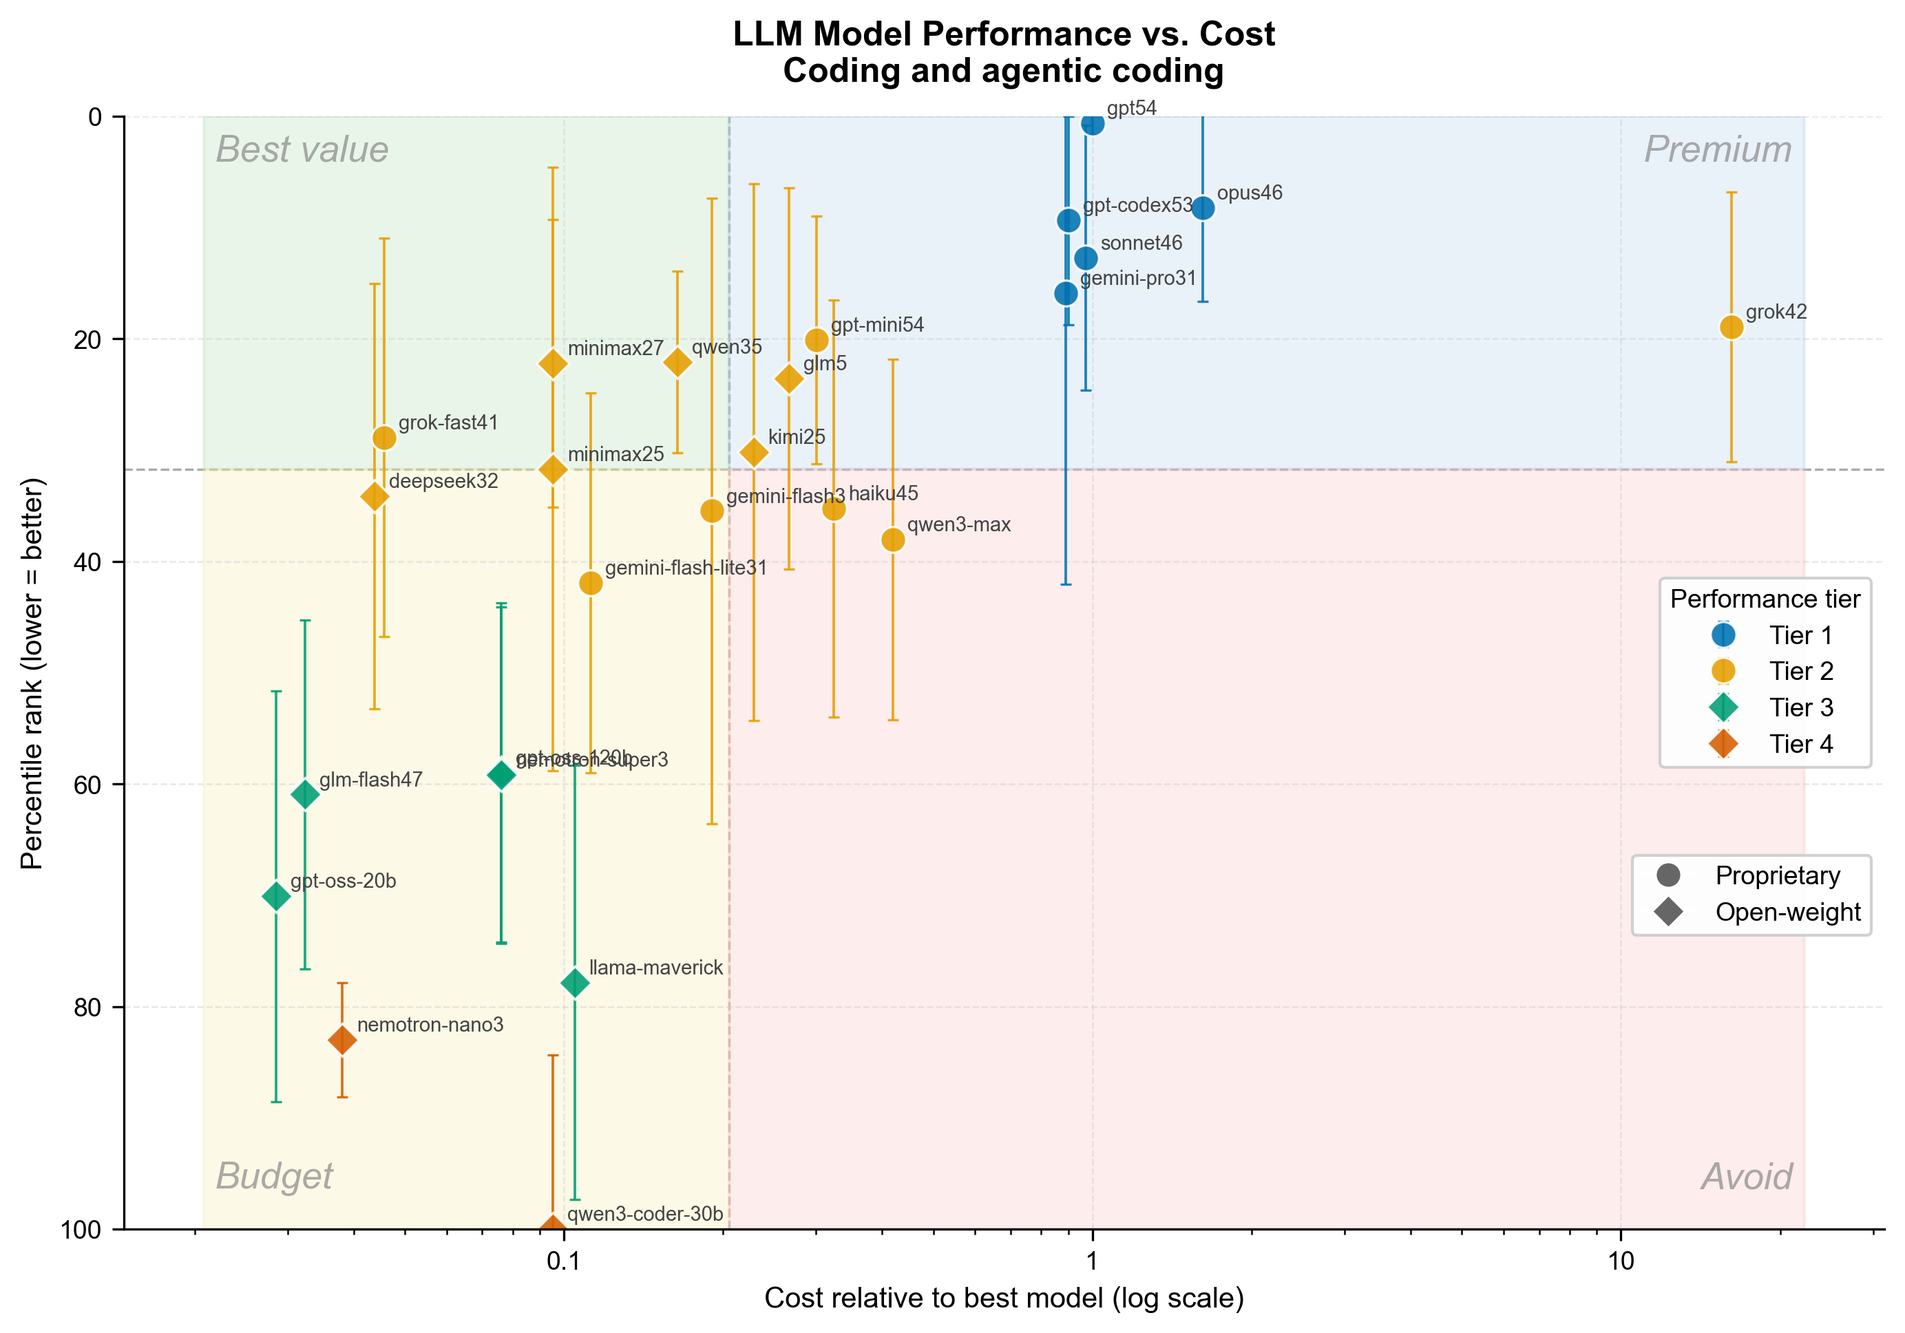
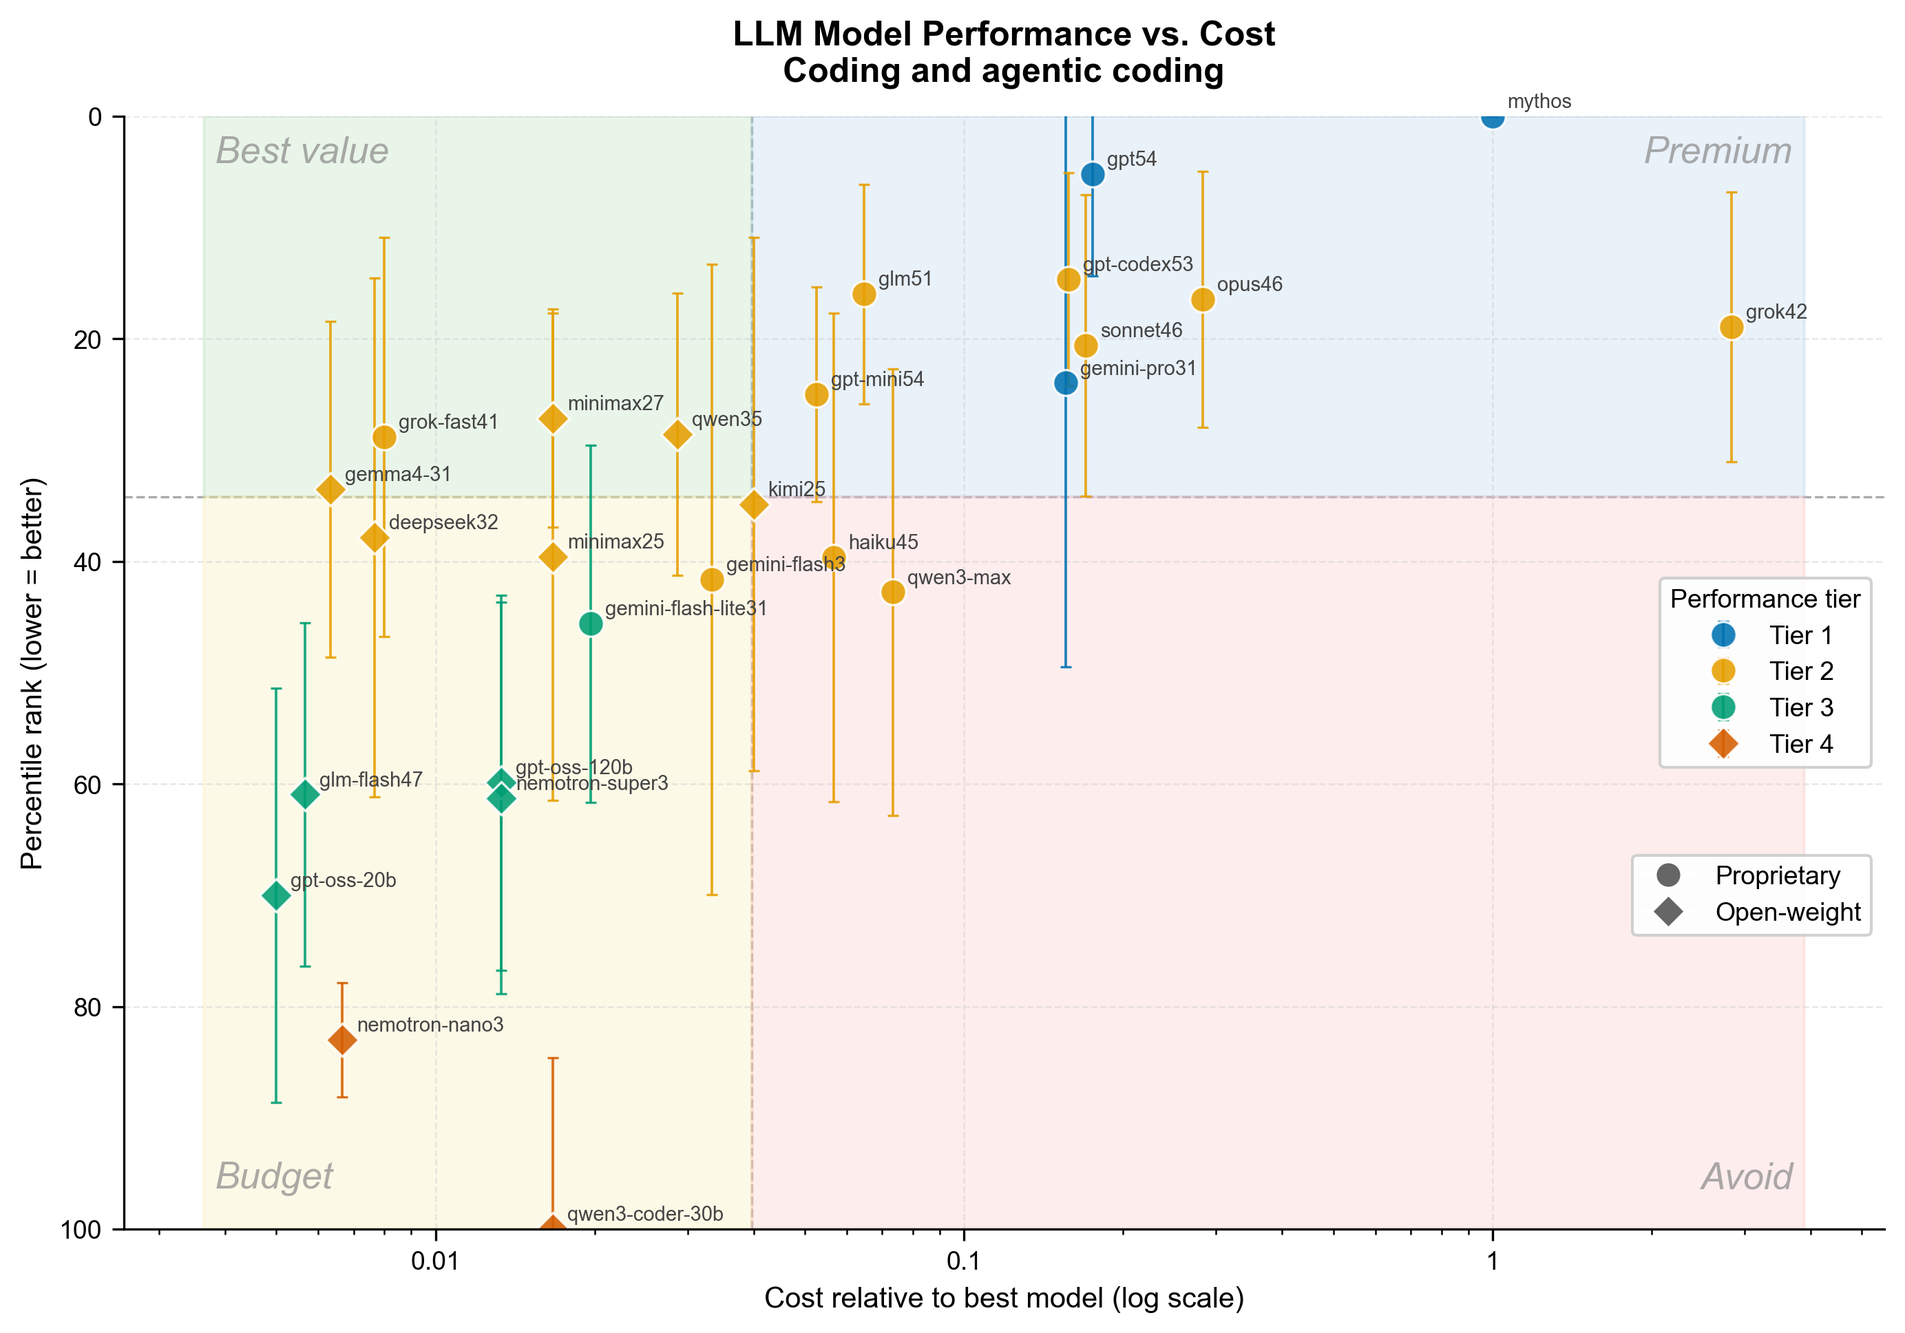
updated rankings: new models, leaderboards, and figures for April 2026

diff --git a/_pages/llm-ranking.md b/_pages/llm-ranking.md
@@ -11,7 +11,7 @@ images:
 
 I benchmarked dozens of LLMs across coding and general reasoning tasks, then mapped their performance against API pricing. This page breaks down the rankings and highlight the best value picks in each category.
 
-Updated on Feb. 25 2026.
+Updated on Apr. 10 2026.
 
 ## Introduction
 
@@ -27,40 +27,45 @@ By analyzing the results, we can identify the highest-performing models as well 
 
 ### General reasoning
 
-The general reasoning ranking, aggregated across four leaderboards, reveals a tight race at the top—and a perhaps surprising amount of statistical ambiguity below it.
+The general reasoning ranking, aggregated across seven leaderboards, is dominated at the top by proprietary models—with open-weights challengers competitive from tier 2 onward.
 
 ```
-+------------------------------------------------------------------------------------+
-| Rank  | Model                   | Avg Pctl  | Std Dev   | # Benchmarks  | Cost/1k  |
-+------------------------------------------------------------------------------------+
-| 1     | gemini-pro31            | 0.028     | 0.031     | 5             | 467      |
-| 2     | opus46                  | 0.057     | 0.048     | 5             | 850      |
-| 3     | sonnet46                | 0.123     | 0.104     | 4             | 510      |
-| 4     | gpt52                   | 0.129     | 0.071     | 5             | 470      |
-| 5     | gemini-pro3             | 0.133     | 0.096     | 5             | 370      |
-| 6     | gpt-pro52               | 0.163     | 0.030     | 3             | 5700     |
-| 7     | grok-fast41             | 0.198     | 0.098     | 4             | 24       |
-| 8     | gpt-codex53             | 0.204     | 0.051     | 2             | 470      |
-| 9     | qwen35                  | 0.224     | 0.136     | 3             | 86       |
-| 10    | grok41                  | 0.226     | 0.156     | 5             | 600      |
-| 11    | glm5                    | 0.229     | 0.123     | 5             | 140      |
-| 12    | kimi25                  | 0.251     | 0.109     | 5             | 120      |
-| 13    | qwen3-max               | 0.265     | 0.116     | 3             | 220      |
-| 14    | gemini-flash3           | 0.286     | 0.263     | 5             | 100      |
-| 15    | deepseek32              | 0.291     | 0.114     | 5             | 23       |
-| 16    | haiku45                 | 0.358     | 0.121     | 3             | 170      |
-| 17    | minimax25               | 0.428     | 0.153     | 4             | 50       |
-| 18    | qwen3-235b              | 0.453     | 0.193     | 4             | 300      |
-| 19    | qwen3-80b               | 0.462     | 0.179     | 3             | 80       |
-| 20    | glm-flash47             | 0.521     | 0.100     | 2             | 17       |
-| 21    | gpt-instant52           | 0.589     | 0.297     | 4             | 470      |
-| 22    | qwen3-32b               | 0.607     | 0.170     | 3             | 40       |
-| 23    | gpt-oss-120b            | 0.645     | 0.218     | 5             | 40       |
-| 24    | llama-maverick          | 0.703     | 0.169     | 4             | 55       |
-| 25    | gpt-oss-20b             | 0.826     | 0.092     | 2             | 15       |
-| 26    | nemotron-nano3          | 0.885     | N/A       | 1             | 20       |
-| 27    | qwen3-coder-30b         | 0.891     | N/A       | 1             | 50       |
-+------------------------------------------------------------------------------------+
++-------------------------------------------------------------------------------------+
+| Rank  | Model                   | Avg Pctl  | Std Dev   | # Benchmarks  | Rel. Cost |
++-------------------------------------------------------------------------------------+
+| 1     | gemini-pro31            | 0.041     | 0.078     | 7             | 1.000     |
+| 2     | gpt54                   | 0.083     | 0.115     | 6             | 1.124     |
+| 3     | mythos                  | 0.101     | 0.001     | 2             | 6.424     |
+| 4     | opus46                  | 0.106     | 0.097     | 7             | 1.820     |
+| 5     | gpt-pro54               | 0.114     | 0.109     | 3             | 13.490    |
+| 6     | sonnet46                | 0.129     | 0.142     | 6             | 1.092     |
+| 7     | muse                    | 0.139     | 0.086     | 3             | 1.820     |
+| 8     | grok42                  | 0.181     | 0.149     | 6             | 13.490    |
+| 9     | gpt-codex53             | 0.208     | 0.050     | 2             | 1.006     |
+| 10    | glm51                   | 0.214     | 0.166     | 7             | 0.415     |
+| 11    | kimi25                  | 0.241     | 0.163     | 7             | 0.257     |
+| 12    | qwen35                  | 0.245     | 0.167     | 4             | 0.184     |
+| 13    | gemini-flash3           | 0.249     | 0.246     | 7             | 0.214     |
+| 14    | gpt-mini54              | 0.259     | 0.172     | 4             | 0.338     |
+| 15    | qwen3-max               | 0.272     | 0.133     | 5             | 0.471     |
+| 16    | gemini-flash-lite31     | 0.274     | 0.144     | 4             | 0.126     |
+| 17    | gemma4-31               | 0.286     | 0.219     | 6             | 0.041     |
+| 18    | deepseek32              | 0.290     | 0.163     | 7             | 0.049     |
+| 19    | qwen35-max              | 0.291     | N/A       | 1             | 0.749     |
+| 20    | minimax27               | 0.318     | 0.145     | 4             | 0.107     |
+| 21    | qwen3-235b              | 0.365     | N/A       | 1             | 0.642     |
+| 22    | grok-fast41             | 0.373     | 0.175     | 6             | 0.051     |
+| 23    | haiku45                 | 0.404     | 0.219     | 6             | 0.364     |
+| 24    | qwen3-80b               | 0.442     | N/A       | 1             | 0.171     |
+| 25    | glm-flash47             | 0.507     | 0.112     | 2             | 0.036     |
+| 26    | llama-maverick          | 0.583     | N/A       | 1             | 0.118     |
+| 27    | gpt-oss-120b            | 0.584     | 0.201     | 6             | 0.086     |
+| 28    | qwen35-35b              | 0.635     | N/A       | 1             | 0.107     |
+| 29    | qwen3-32b               | 0.637     | 0.203     | 3             | 0.086     |
+| 30    | gpt-oss-20b             | 0.647     | 0.160     | 3             | 0.032     |
+| 31    | qwen3-coder-30b         | 0.840     | N/A       | 1             | 0.107     |
+| 32    | nemotron-nano3          | 0.885     | N/A       | 1             | 0.043     |
++-------------------------------------------------------------------------------------+
 ```
 
 <a href="/assets/img/clippies/general_ranking.png" data-lightbox="roadtrip">
@@ -75,42 +80,39 @@ The general reasoning ranking, aggregated across four leaderboards, reveals a ti
 
 ### Coding and agentic coding
 
-The coding ranking, drawn from seven benchmarks including demanding agentic evaluations, tells a more subtle story.
+The coding ranking, drawn from nine benchmarks including demanding agentic evaluations, reveals a two-model tier-1 club at the top—and a wide, cost-diverse tier 2 below it.
 
 ```
-+------------------------------------------------------------------------------------+
-| Rank  | Model                   | Avg Pctl  | Std Dev   | # Benchmarks  | Cost/1k  |
-+------------------------------------------------------------------------------------+
-| 1     | opus46                  | 0.042     | 0.055     | 7             | 850      |
-| 2     | sonnet46                | 0.085     | 0.076     | 7             | 510      |
-| 3     | gemini-pro31            | 0.101     | 0.056     | 5             | 467      |
-| 4     | glm5                    | 0.120     | 0.072     | 6             | 140      |
-| 5     | gpt52                   | 0.132     | 0.065     | 7             | 470      |
-| 6     | gemini-pro3             | 0.133     | 0.086     | 7             | 370      |
-| 7     | gpt-codex53             | 0.172     | 0.222     | 6             | 473      |
-| 8     | kimi25                  | 0.203     | 0.112     | 6             | 120      |
-| 9     | qwen35                  | 0.210     | 0.111     | 4             | 86       |
-| 10    | gemini-flash3           | 0.218     | 0.088     | 7             | 100      |
-| 11    | gpt-pro52               | 0.258     | 0.158     | 2             | 5700     |
-| 12    | minimax25               | 0.279     | 0.189     | 6             | 50       |
-| 13    | qwen3-max               | 0.351     | 0.259     | 3             | 220      |
-| 14    | deepseek32              | 0.352     | 0.162     | 7             | 23       |
-| 15    | qwen35-27b              | 0.402     | 0.194     | 2             | 50       |
-| 16    | haiku45                 | 0.416     | 0.224     | 7             | 170      |
-| 17    | grok-fast41             | 0.463     | 0.303     | 4             | 20       |
-| 18    | qwen3-235b              | 0.472     | 0.216     | 5             | 300      |
-| 19    | glm-flash47             | 0.518     | 0.296     | 3             | 17       |
-| 20    | grok41                  | 0.563     | 0.250     | 6             | 600      |
-| 21    | gpt-instant52           | 0.618     | 0.242     | 6             | 470      |
-| 22    | qwen3-coder-30b         | 0.699     | 0.259     | 4             | 50       |
-| 23    | gpt-oss-120b            | 0.717     | 0.156     | 6             | 40       |
-| 24    | llama-maverick          | 0.746     | 0.188     | 5             | 55       |
-| 25    | gpt-oss-20b             | 0.790     | 0.185     | 4             | 15       |
-| 26    | qwen3-32b               | 0.815     | 0.069     | 3             | 40       |
-| 27    | qwen3-80b               | 0.819     | 0.096     | 3             | 80       |
-| 28    | mistral                 | 0.880     | N/A       | 1             | 400      |
-| 29    | nemotron-nano3          | 1.000     | N/A       | 1             | 20       |
-+------------------------------------------------------------------------------------+
++-------------------------------------------------------------------------------------+
+| Rank  | Model                   | Avg Pctl  | Std Dev   | # Benchmarks  | Rel. Cost |
++-------------------------------------------------------------------------------------+
+| 1     | mythos                  | 0.000     | 0.000     | 3             | 1.000     |
+| 2     | gpt54                   | 0.052     | 0.091     | 7             | 0.175     |
+| 3     | gpt-codex53             | 0.147     | 0.096     | 6             | 0.158     |
+| 4     | glm51                   | 0.160     | 0.099     | 6             | 0.065     |
+| 5     | opus46                  | 0.164     | 0.115     | 8             | 0.283     |
+| 6     | grok42                  | 0.189     | 0.121     | 3             | 2.833     |
+| 7     | sonnet46                | 0.206     | 0.136     | 8             | 0.170     |
+| 8     | gemini-pro31            | 0.240     | 0.255     | 8             | 0.156     |
+| 9     | gpt-mini54              | 0.250     | 0.097     | 6             | 0.053     |
+| 10    | minimax27               | 0.271     | 0.098     | 6             | 0.017     |
+| 11    | qwen35                  | 0.286     | 0.127     | 5             | 0.029     |
+| 12    | grok-fast41             | 0.288     | 0.179     | 5             | 0.008     |
+| 13    | gemma4-31               | 0.335     | 0.151     | 4             | 0.006     |
+| 14    | kimi25                  | 0.349     | 0.240     | 7             | 0.040     |
+| 15    | deepseek32              | 0.379     | 0.233     | 7             | 0.008     |
+| 16    | minimax25               | 0.396     | 0.219     | 8             | 0.017     |
+| 17    | haiku45                 | 0.396     | 0.220     | 8             | 0.057     |
+| 18    | gemini-flash3           | 0.416     | 0.283     | 7             | 0.033     |
+| 19    | qwen3-max               | 0.428     | 0.200     | 4             | 0.073     |
+| 20    | gemini-flash-lite31     | 0.456     | 0.160     | 5             | 0.020     |
+| 21    | gpt-oss-120b            | 0.599     | 0.168     | 5             | 0.013     |
+| 22    | glm-flash47             | 0.609     | N/A       | 1             | 0.006     |
+| 23    | nemotron-super3         | 0.613     | 0.176     | 4             | 0.013     |
+| 24    | gpt-oss-20b             | 0.700     | 0.186     | 4             | 0.005     |
+| 25    | nemotron-nano3          | 0.830     | 0.051     | 2             | 0.007     |
+| 26    | qwen3-coder-30b         | 1.000     | N/A       | 1             | 0.017     |
++-------------------------------------------------------------------------------------+
 ```
 
 <a href="/assets/img/clippies/coding_ranking.png" data-lightbox="roadtrip">
@@ -127,24 +129,28 @@ The coding ranking, drawn from seven benchmarks including demanding agentic eval
 
 ### Benchmark selection and data collection
 
-I manually collected model rankings from established LLM leaderboards on February 11, 2026, choosing benchmarks that cover different evaluation angles.
+I manually collected model rankings from established LLM leaderboards on April 10, 2026, choosing benchmarks that cover different evaluation angles.
 
-*General reasoning* draws on four leaderboards:
+*General reasoning* draws on seven leaderboards:
 
 - [LiveBench](https://livebench.ai) — regularly refreshed, multi-domain evaluation designed to resist contamination
 - [Arena](https://arena.ai/leaderboard) — ELO-style ranking from blind human preference votes (a popular-preference signal rather than a strict accuracy benchmark, but informative nonetheless)
 - [Artificial Analysis Intelligence Index](https://artificialanalysis.ai) — a composite of 10 evaluations including GPQA Diamond, Humanity's Last Exam, SciCode, and others
 - [Scale's Humanity's Last Exam](https://scale.com/leaderboard/humanitys_last_exam) — expert-level reasoning questions
+- [SimpleBench](https://simple-bench.com) — commonsense and reasoning-trap questions designed to expose systematic errors
+- [Dubesor LLM Leaderboard](https://dubesor.de/benchtable) — hand-graded multi-domain evaluation
+- [GPQA Diamond](https://scale.com/leaderboard/gpqa) — graduate-level science questions spanning biology, chemistry, and physics
 
-*Coding and agentic coding* draws on seven leaderboards:
+*Coding and agentic coding* draws on nine leaderboards:
 
-- The three leaderboards previously mentioned (using coding-specific subcategories where applicable) plus four focused evaluations below.
+- The three leaderboards previously mentioned (LiveBench coding subcategory, Arena, and Artificial Analysis agentic and coding sub-scores) plus six focused evaluations below.
 - [Scale's SWE Bench Pro Public](https://scale.com/leaderboard/swe_bench_pro_public)
 - [Berkeley Function-Calling Leaderboard (BFCL)](https://gorilla.cs.berkeley.edu/leaderboard.html) — tool and function call accuracy
 - [SWE-bench Verified](https://www.swebench.com) — real-world GitHub issue resolution
 - [Terminal-Bench 2.0](https://www.tbench.ai/leaderboard/terminal-bench/2.0) — agentic terminal and shell-based coding tasks
+- [SWE-Atlas Codebase QnA](https://sweatlas.com) — question-answering over large, real-world codebases
 
-I selected 20+ models spanning the current frontier: proprietary leaders from OpenAI (GPT-5.2+ family), Anthropic (Claude 4.5+ family), Google (Gemini 3), and xAI (Grok 4+), plus open-weights challengers from DeepSeek, Moonshot AI (Kimi), Z AI (GLM), MiniMax, Alibaba (Qwen3+), and Meta/NVIDIA (Llama 4).
+I selected 30+ models spanning the current frontier: proprietary leaders from OpenAI (GPT-5.4 family: gpt54, gpt-pro54, gpt-mini54, gpt-codex53), Anthropic (Claude 4.5+ family including the unreleased Mythos), Google (Gemini 3.1 family and Gemma 4), xAI (Grok 4.2 and Grok Fast 4.1), and Meta (unreleased Muse), plus open-weights challengers from DeepSeek (V3.2), Moonshot AI (Kimi K2.5), Z AI (GLM 5.1), MiniMax (M2.5/M2.7), Alibaba (Qwen 3/3.5 variants), Meta/Google (Llama 4 Maverick, Gemma 4), and NVIDIA (Nemotron Nano/Super 3).
 
 ### Percentile normalization
 
@@ -174,15 +180,17 @@ In plain terms: if B's best-case performance could plausibly reach A's worst-cas
 
 ### Cost metric
 
-For consistent cost comparison, I use the credit cost per 1,000 tokens from a single API provider ([Poe](https://poe.com)) as a uniform pricing reference. Absolute dollar costs vary by provider and plan, but this gives a stable *relative* comparison across all models on the same platform.
+For consistent cost comparison, I normalize each model's Poe credit cost per 1,000 tokens to the cost of the best-ranked model in each category (Rel. Cost = 1 for the top model; values below 1 are cheaper, above 1 are more expensive). This removes absolute pricing noise while preserving the cost ratios that matter for budget decisions. Absolute credit prices vary by provider and plan, but the relative ordering remains stable across models on the same platform.
 
 
 ## Conclusions
 
-- If you need the absolute best coding reliability and can afford it, Claude Opus 4.6 earns its price. It ranks consistently at tier 1.
-- For general reasoning, you have several affordable options: Kimi K2.5, GLM-5 deliver Tier 2 performance at a fraction of the cost. Also competitive: Gemini Flash 3 and Qwen 3 Max.
-- For coding and agentic coding (e.g. [opencode](https://opencode.ai)), there are many options with great value: Gemini Flash 3, Kimi K2.5, GLM-5, MiniMax M2.5 and Qwen 3.5.
-- If budget is the primary concern, DeepSeek V3.2 and Grok 4.1 Fast offer the standout value of this generation.
+- For coding, the tier-1 club is now just two models: Anthropic's unreleased **Mythos** and **GPT-5.4**. If you need that peak performance today and cost is secondary, those are your only options.
+- Claude Opus 4.6, Sonnet 4.6, GLM 5.1, GPT-Codex 5.3, and Grok 4.2 form a strong tier-2 coding cohort—statistically indistinguishable from each other and close to the top.
+- For general reasoning, all eight tier-1 models are proprietary (Gemini Pro 3.1, GPT-5.4, Mythos, Opus 4.6, GPT-Pro 5.4, Sonnet 4.6, Meta's Muse, Grok 4.2). The best open-weights pick here is **GLM 5.1**, landing at rank 10.
+- Best value for general reasoning: **GLM 5.1**, **Kimi K2.5**, **Qwen 3.5**, **Gemini Flash 3**, and **Gemma 4 3.1** deliver tier-2-or-better performance at well below the cost of the top models.
+- Best value for coding and agentic tasks (e.g. [opencode](https://opencode.ai)): **Grok Fast 4.1**, **Gemma 4 3.1**, **DeepSeek V3.2**, **MiniMax M2.7**, **Qwen 3.5**, **GLM 5.1**, **Kimi K2.5**, and **Gemini Flash 3** all sit in the upper-left of the cost-performance plot.
+- For the tightest budgets, **DeepSeek V3.2** and **Grok Fast 4.1** remain the standout value picks; **GLM Flash 4.7** and **GPT-OSS-20B** push even further into budget territory.
 
 ---
 
